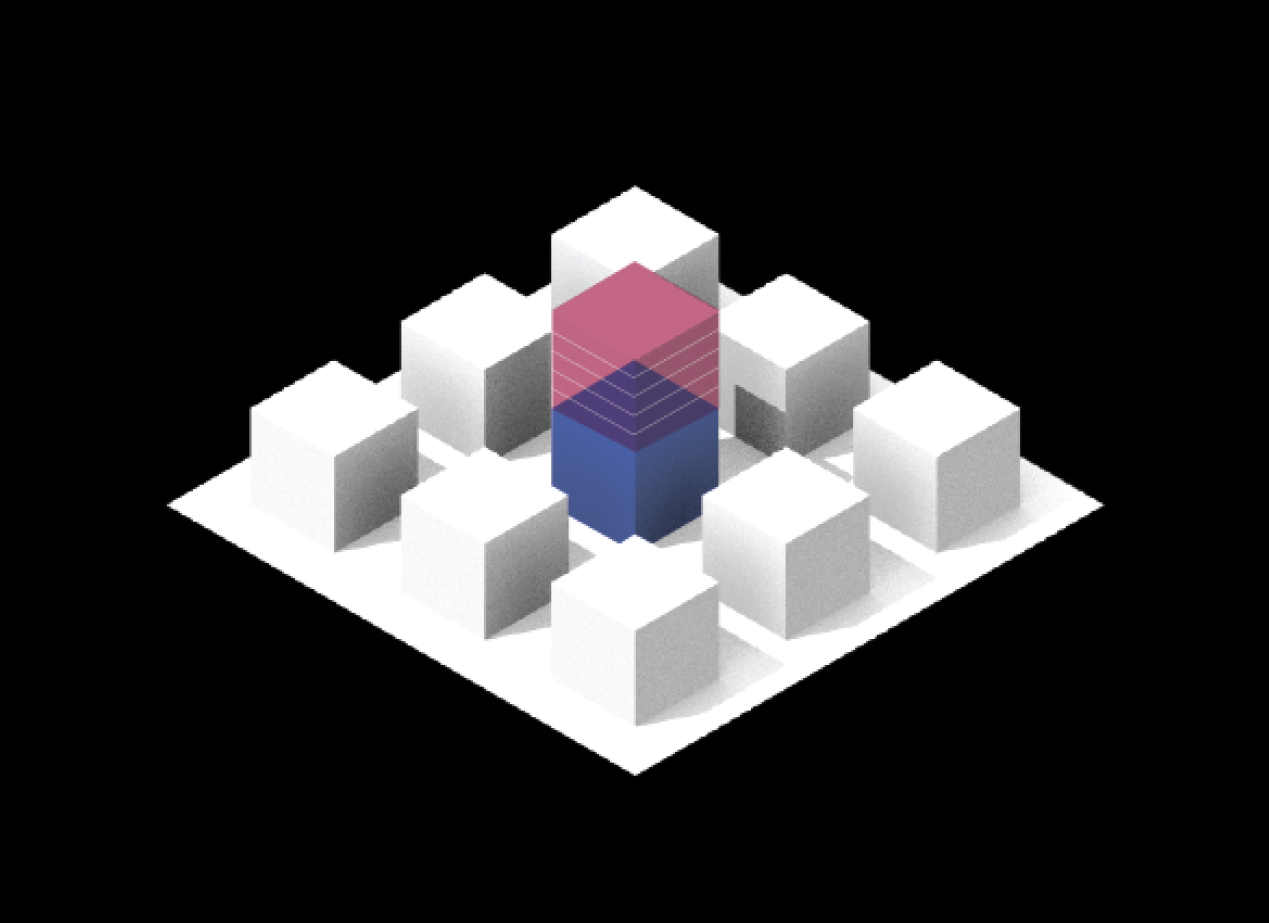
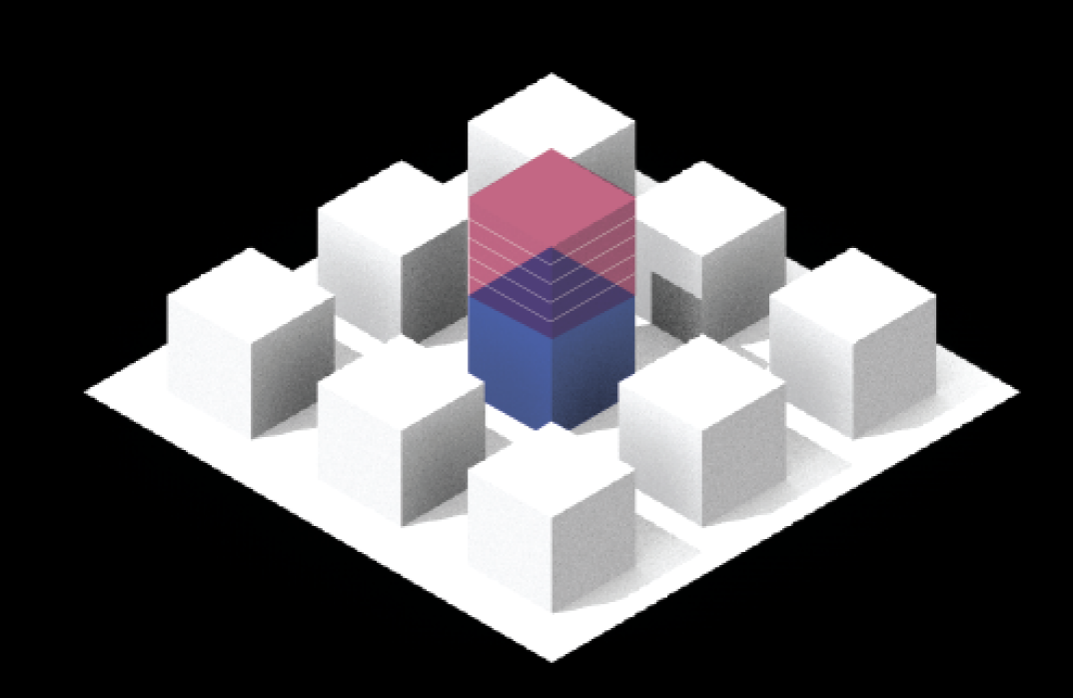
Added 2.4

Changed region(s): [[0.0615, 0.0903, 0.9534, 0.9628]]

diff --git a/src/components/2.4_performance/IncentivePerformancePage.js b/src/components/2.4_performance/IncentivePerformancePage.js
@@ -17,8 +17,42 @@ const IncentivePerformancePage = () => {
         </div>
         <div className={styles.rowGroup} style={{ marginTop: "30px" }}>
           <div className={styles.description}>
-          This is the comparison between the current practice and community DAO paradigm.
+            This is the comparison between the current practice and community
+            DAO paradigm.
           </div>
+        </div>
+
+        <div className={styles.rowGroup} style={{ marginTop: "50px" }}>
+          <div className={styles.colGroup}>
+            <div className={styles.title_current}>Current Practice</div>
+            <div className={styles.resultContent}>
+              Development based on the right zoning with 20% affordable housing
+              required by the Inclusionary Housing Program.
+            </div>
+            <div className={styles.resultContent}>- 5 floors</div>
+          </div>
+          <img
+            className={styles.img}
+            src={`/building_rendered/result_1.png`}
+            alt={""}
+          />
+        </div>
+
+        <div className={styles.rowGroup} style={{ marginTop: "50px" }}>
+          <div className={styles.colGroup}>
+            <div className={styles.title_DAO}>Current Practice</div>
+            <div className={styles.resultContent}>
+              Five extra floors adding on to the right zoning, with 70% of the
+              profit donated to the community encdowment.
+            </div>
+            <div className={styles.resultContent}>- 5+5=10 floors</div>
+            <div className={styles.resultContent}>- 70% projected profit for community endowment</div>
+          </div>
+          <img
+            className={styles.img}
+            src={`/building_rendered/result_2.png`}
+            alt={""}
+          />
         </div>
         <div style={{ marginTop: "62px", marginBottom: "92px" }}></div>
         <IndicatorCard />

diff --git a/src/components/2.4_performance/IncentivePerformancePage.module.css b/src/components/2.4_performance/IncentivePerformancePage.module.css
@@ -26,6 +26,13 @@
   /* margin-top: 92px; */
 }
 
+.colGroup {
+  display: flex;
+  flex-direction: column;
+  width: 50%;
+  /* margin-top: 92px; */
+}
+
 .hint {
   position: absolute;
   right: 294px;
@@ -69,6 +76,50 @@
   color: #ffffff;
 }
 
+.title_current {
+  font-family: "Inter";
+  font-style: normal;
+  font-weight: 700;
+  font-size: 20px;
+  line-height: 25px;
+  /* identical to box height, or 125% */
+
+  text-align: justify;
+
+  color: #2453ff;
+
+  margin-top: 40px;
+}
+
+.title_DAO {
+  font-family: "Inter";
+  font-style: normal;
+  font-weight: 700;
+  font-size: 20px;
+  line-height: 25px;
+  /* identical to box height, or 125% */
+
+  text-align: justify;
+
+  color: #d54666;
+
+  margin-top: 40px;
+}
+
+.resultContent {
+  margin-top: 5px;
+  margin-left: 5px;
+
+  font-family: "Inter";
+  font-style: normal;
+  font-weight: 400;
+  font-size: 14px;
+  line-height: 21px;
+  /* or 150% */
+
+  color: #ffffff;
+}
+
 .slider {
   margin-left: 5%;
   width: 55%;
@@ -88,4 +139,8 @@
 .amen_button {
   min-width: 190px;
   min-height: 32px;
+}
+
+.img {
+  width: 50%;
 }
